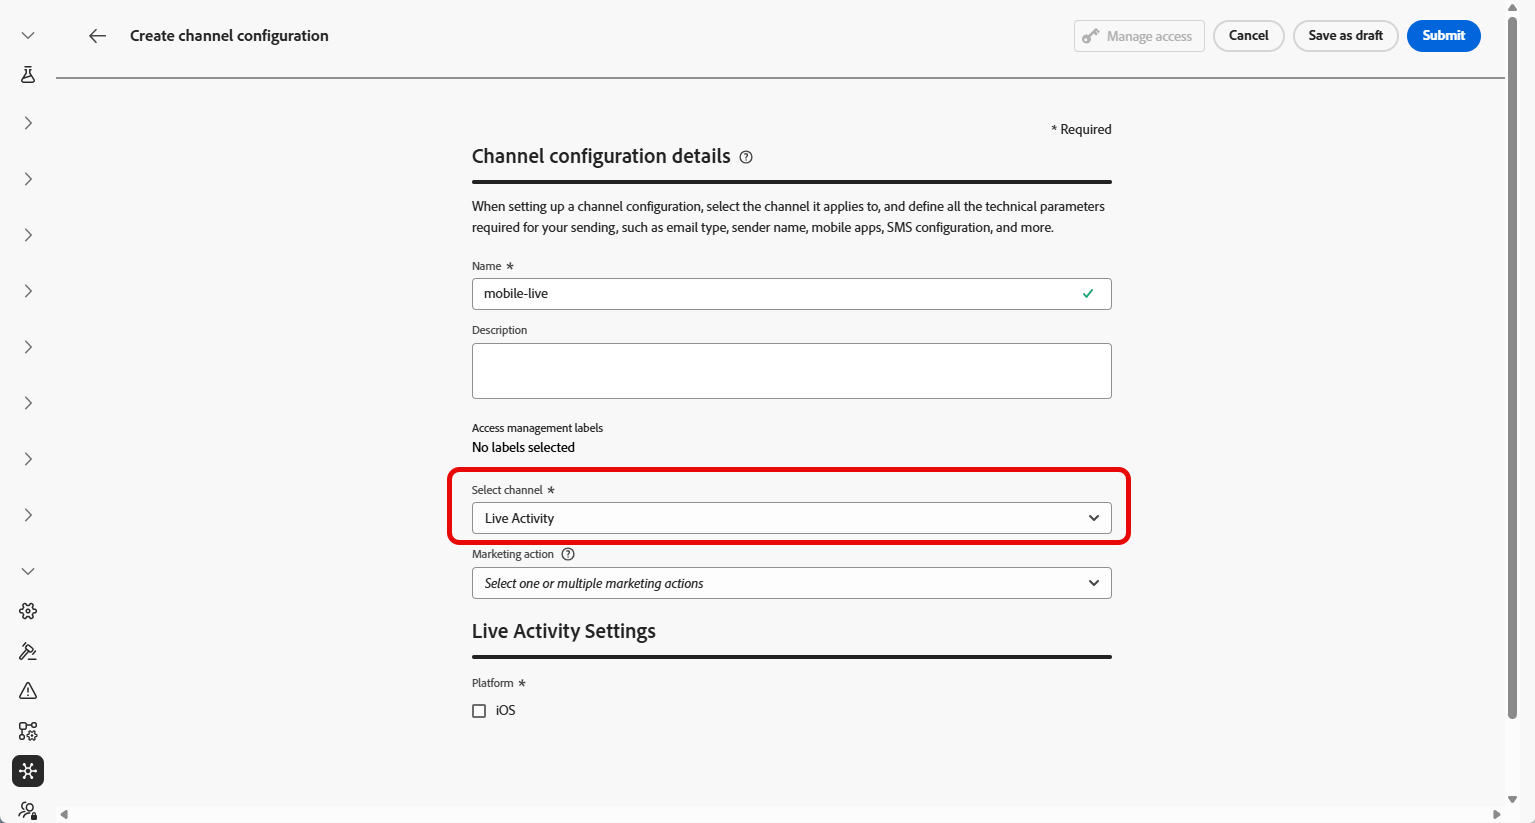
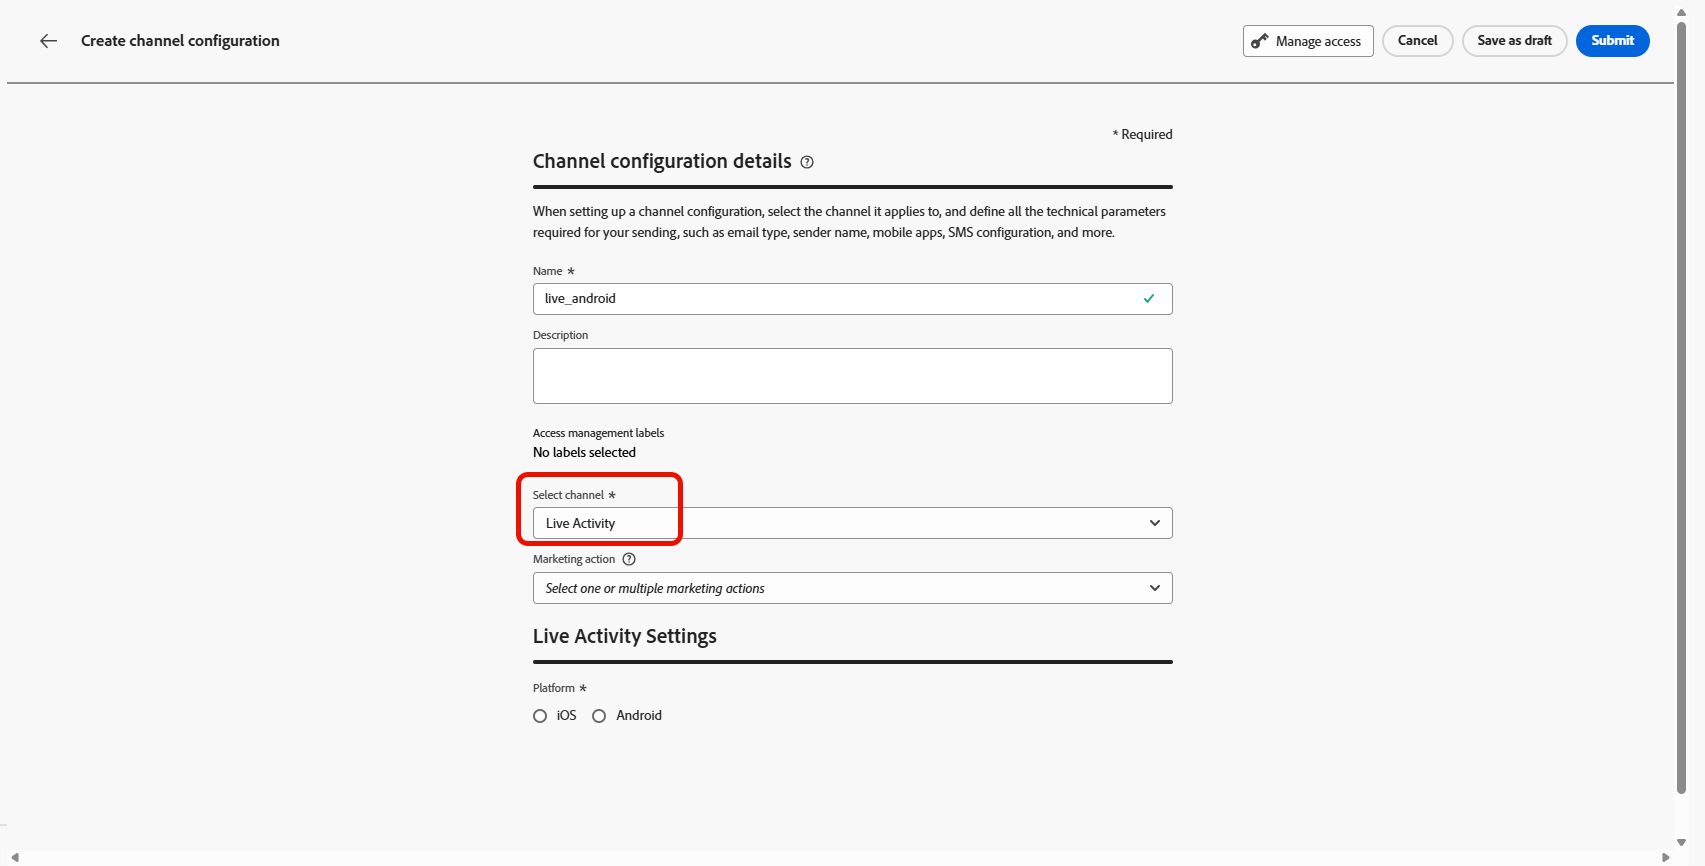
update

diff --git a/help/using/mobile-live/mobile-live-configuration.md b/help/using/mobile-live/mobile-live-configuration.md
@@ -107,7 +107,7 @@ Step 1 is optional if your push credentials have already been configured, as the
 
 >[!ENDTABS]
 
-## Step 2: create your live activity configuration {#config-live-activity}
+## Step 2: Create your live activity configuration {#config-live-activity}
 
 1. In the left rail, browse to **[!UICONTROL Administration]** > **[!UICONTROL Channels]** and select **[!UICONTROL General settings]** > **[!UICONTROL Channel configurations]**. Click the **[!UICONTROL Create channel configuration]** button.
 
@@ -125,9 +125,9 @@ Step 1 is optional if your push credentials have already been configured, as the
 
 1. Select **[!UICONTROL Marketing action(s)]** to associate consent policies to the messages using this configuration. All consent policies associated with the marketing action are leveraged in order to respect the preferences of your customers. Learn more
 
-1. Choose iOS as your **[!UICONTROL Platform]**.
+1. Choose your **[!UICONTROL Platform]**.
 
-1. Select from the drop-down the same **[!UICONTROL App id]** as for your [push credential](#push-credentials-launch) configured above or choose an existing one.
+1. Select from the drop-down the same **[!UICONTROL App ID]** as for your [push credential](#push-credentials-launch) configured above or choose an existing one.
 
     ![](assets/config-3.png)
 

diff --git a/help/using/mobile-live/mobile-live-faq.md b/help/using/mobile-live/mobile-live-faq.md
@@ -230,6 +230,7 @@ It depends on unitary vs. broadcast:
 * **Broadcast**: `update`/`end` are sent to the broadcast channel, and a device only subscribes to that channel when it receives `start`. So an `update`/`end` for a channel that was never started has no subscribers and reaches no devices, always send `start` first. Also, if you use a brand-new `requestId`, the request is treated as a `start` rather than an `update`, so it will not error but will not behave as the update you intended.
 * **Unitary**: `update`/`end` target the recipient's device directly, so an update can physically reach the device even without a prior `start`. Whether the app renders an Android Live Update that was never started is SDK/app-dependent, best practice is still to start first.
 * **Already ended**: An `update` is rejected with an error, while an `end` is idempotent (a no-op that returns success).
+++++
 
 +++ Are there limits on how much content an Android Live Update can carry?
 
